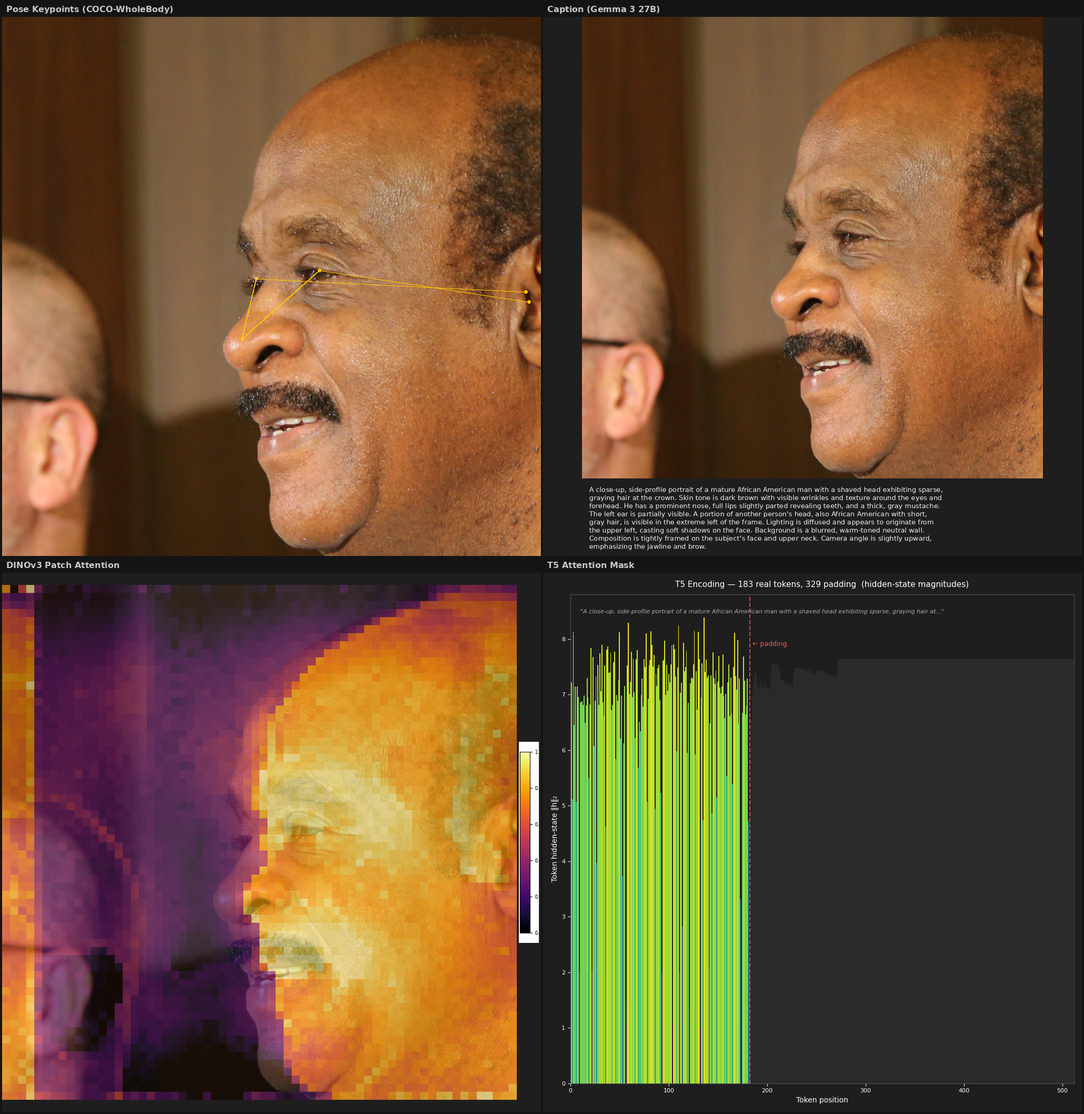
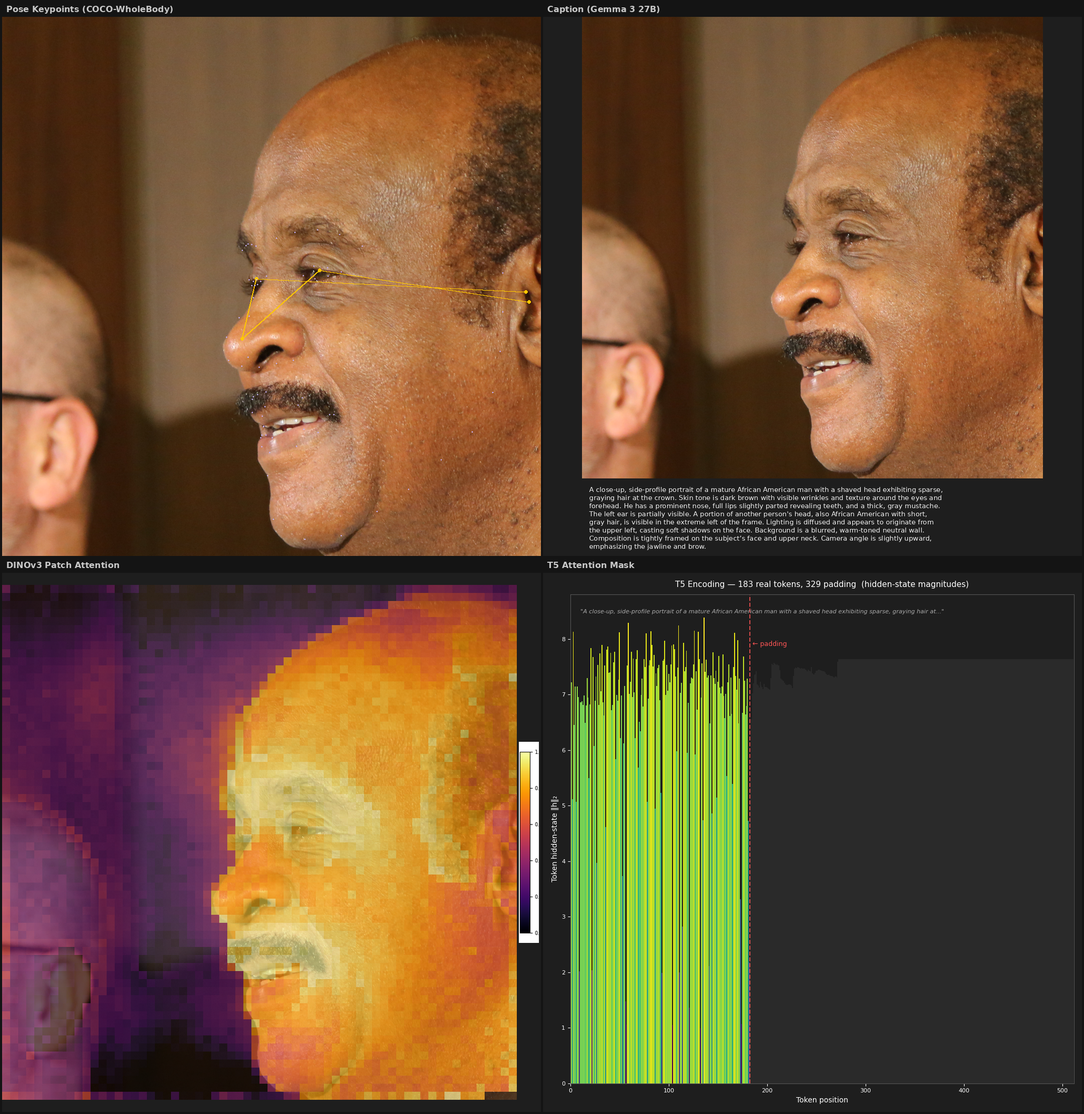
Fix DINOv3 register token ordering in pipeline and visualization
DINOv3 token sequence is [CLS, reg1..reg4, patch1..patchN], not
[CLS, patch1..patchN, reg1..reg4] as previously assumed.

Pipeline: slice from index 5 onward to get only spatial patches.
Visualization: auto-detect and strip leading register tokens in
existing data (first 4 have ~1.6× higher norm than spatial patches).

Changed region(s): [[0.0, 0.4991, 0.4971, 0.9981], [0.435, 0.9045, 0.466, 0.9357]]

diff --git a/src/stratum/pipeline/dinov3.py b/src/stratum/pipeline/dinov3.py
@@ -60,10 +60,13 @@ def compute_dinov3_both(
         and *patches* is an ``(num_patches, 1024)`` float32 array (or ``None``
         when running the pipeline fallback).
 
-    DINOv3 token sequence: ``[CLS, patch_1, …, patch_N, reg_1, …, reg_4]``.
-    CLS is at index 0; the last 4 tokens are register tokens and are excluded.
+    DINOv3 token sequence: ``[CLS, reg_1, …, reg_4, patch_1, …, patch_N]``.
+    CLS is at index 0; the next 4 tokens are register tokens.  Spatial
+    patches start at index 5.
     """
     import torch
+
+    NUM_REGISTERS = 4
 
     if dino["kind"] == "pipeline":
         feats = dino["feature_extractor"](image)
@@ -104,10 +107,9 @@ def compute_dinov3_both(
 
     cls_list = cls_emb.detach().cpu().float().tolist()
 
-    # Patch tokens: skip CLS (idx 0) and 4 register tokens at the tail
-    total_tokens = outputs.last_hidden_state.shape[1]
-    num_patches = total_tokens - 5  # exclude CLS + 4 registers
-    patches = outputs.last_hidden_state[0, 1 : num_patches + 1, :]
+    # Patch tokens: skip CLS (idx 0) and 4 register tokens (idx 1-4).
+    # Spatial patches begin at index 5.
+    patches = outputs.last_hidden_state[0, 1 + NUM_REGISTERS :, :]
     patches_np = patches.detach().cpu().float().numpy()
 
     return cls_list, patches_np

diff --git a/scripts/visualize_example.py b/scripts/visualize_example.py
@@ -152,11 +152,24 @@ def render_dino_heatmap(img: Image.Image, cls_emb: np.ndarray, patch_emb: np.nda
 
     Uses percentile-based normalization for better contrast and a stronger
     blend so the heatmap is clearly visible over the face.
+
+    Automatically detects and strips leading register tokens (DINOv3 places
+    4 register tokens before the spatial patches).
     """
     import matplotlib
     matplotlib.use("Agg")
     import matplotlib.pyplot as plt
     import matplotlib.cm as cm
+
+    # Detect register tokens: if the first 4 patches have significantly
+    # higher norms than the rest, they are register tokens and should be
+    # stripped before spatial reshaping.
+    norms = np.linalg.norm(patch_emb, axis=1)
+    if len(patch_emb) > 8:
+        head_mean = norms[:4].mean()
+        rest_mean = norms[4:].mean()
+        if head_mean > rest_mean * 1.4:
+            patch_emb = patch_emb[4:]
 
     # Cosine similarity: CLS vs each patch
     cls_norm = cls_emb / (np.linalg.norm(cls_emb) + 1e-8)
